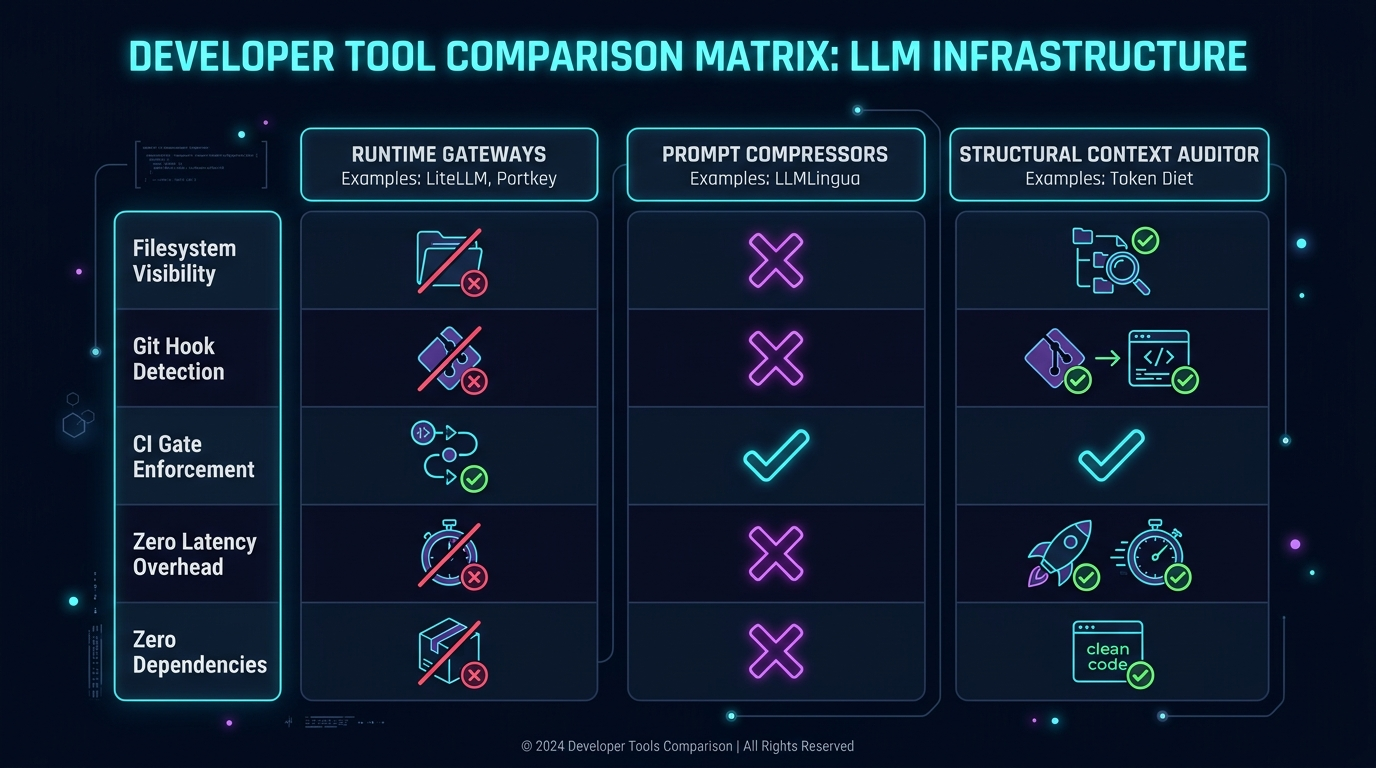
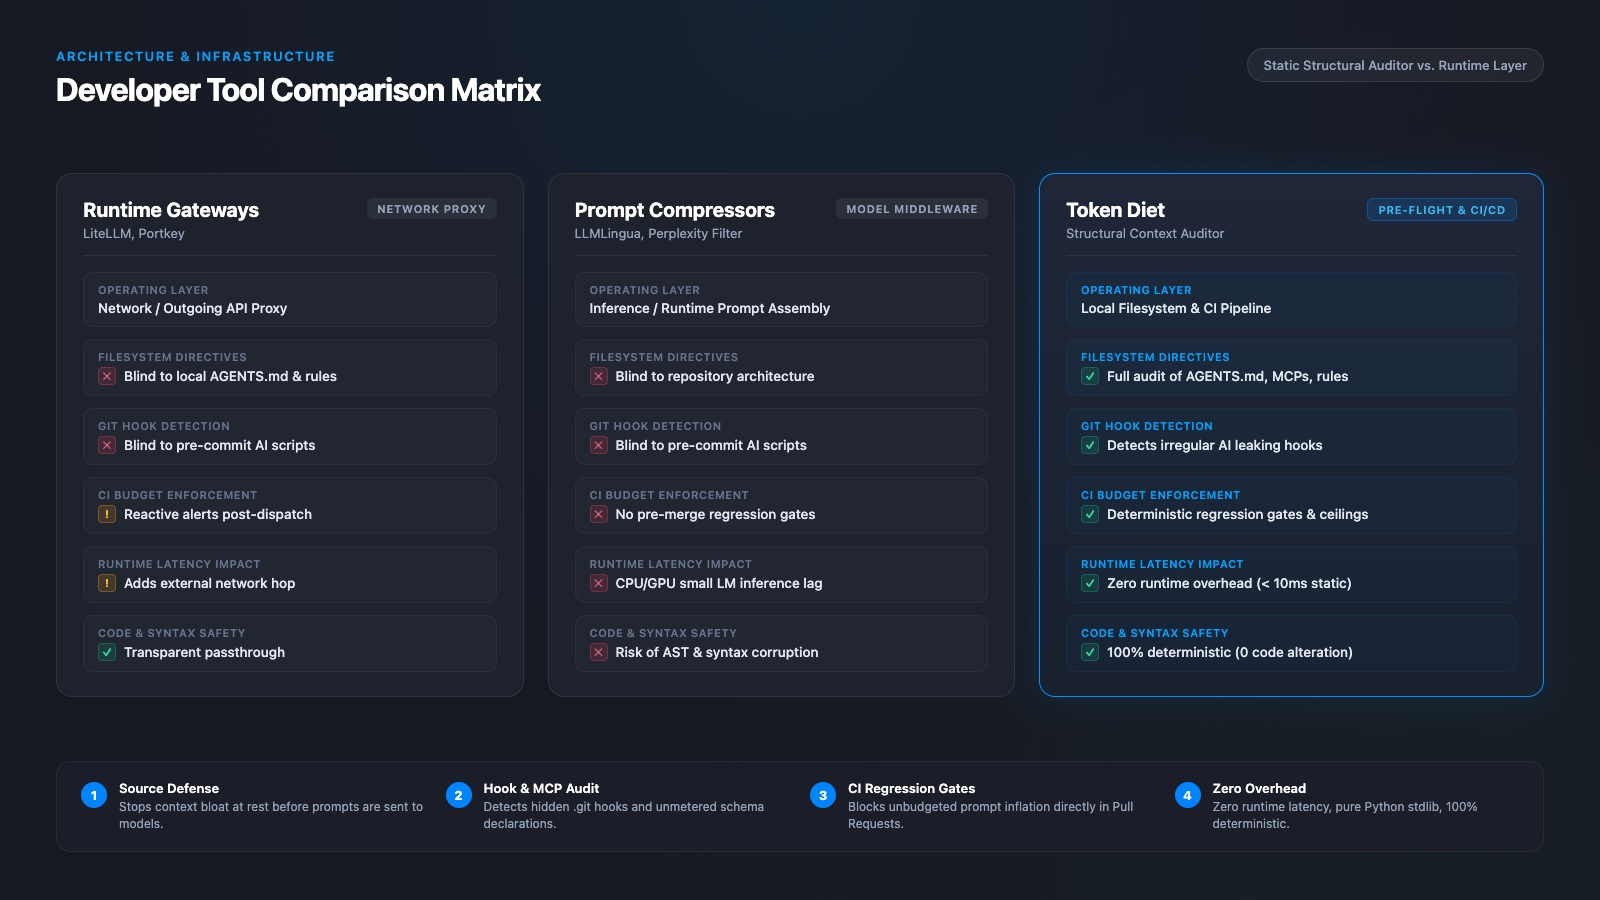
docs: clarify structural linter vs behavioral prompt guides

diff --git a/README.md b/README.md
@@ -35,7 +35,9 @@ Most LLM optimization tooling operates downstream at runtime—proxying HTTP tra
 
 * **Runtime Gateways (LiteLLM, Portkey):** Handle API routing, multi-provider fallbacks, and centralized usage logging. However, they are completely blind to uncommitted local directives, invisible `.git/hooks/pre-commit` scripts, or workstation-wide prompt bloat. By the time a gateway sees the payload, the tokens have already been loaded, serialized, and billed.
 * **Runtime Compressors (LLMLingua):** Use small language models or perplexity filtering to drop prompt tokens dynamically before dispatch. While useful for free-form prose, runtime compression introduces noticeable latency, burns local compute cycles, and risks damaging code syntax, indentation, and strict architectural constraints.
-* **Token Diet:** Operates **at rest** as a static structural context auditor and linter. It prevents context pollution at the architectural source—before prompts are sent, before PRs are merged, and before rogue hooks leak diffs to external models.
+* **Behavioral Prompt Guides (e.g., Agensi's Cut Agent Token Costs):** Broad conceptual frameworks that coach agents to "be concise" and choose smaller models. While valuable for in-session behavior, prompt guides are not executable software—they rely entirely on the LLM's willingness to remember instructions under severe context drift, cannot measure exact file bytes or MCP schemas, and cannot fail a CI pull request build.
+* **Token Diet:** Operates **at rest** as a static structural context auditor and deterministic linter. It prevents context pollution at the architectural source—measuring exact filesystem artifacts, neutralizing unmonitored hooks programmatically, and blocking PR regressions in CI (< 10 ms, zero dependencies).
+
 
 ---
 
